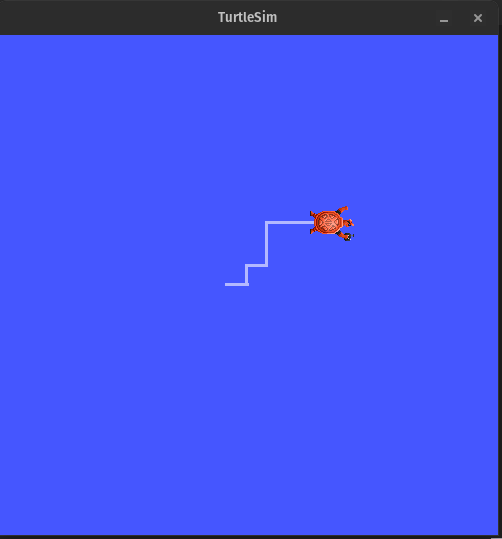
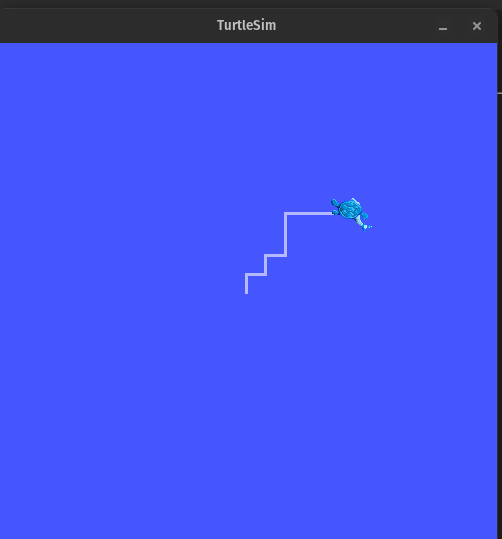
docs: :memo: Update image of demo github

Changed region(s): [[0.0, 0.0, 1.0, 1.0], [0.4482, 0.3562, 0.747, 0.5343]]

diff --git a/src/controllers/turtlebot.py b/src/controllers/turtlebot.py
@@ -23,7 +23,7 @@ class TurtleController(Node):
     def __update_current_turtle1_pose(self, _pose):
         self.__current_turtle1_pose = _pose
         if self.__set_point_turtle1_pose is None:
-            self.__set_point_turtle1_pose =  PoseData(self.__target_path.current_position().x + 5.0, self.__target_path.current_position().y + 5.0)
+            self.__set_point_turtle1_pose =  PoseData(self.__target_path.current_position().x + 5.5, self.__target_path.current_position().y + 5.5)
             self.get_logger().info("Set point: {}".format(_pose))
             self.get_logger().info("Target: {}".format(self.__set_point_turtle1_pose))
             self.get_logger().info("Current: {}".format(self.__current_turtle1_pose))
